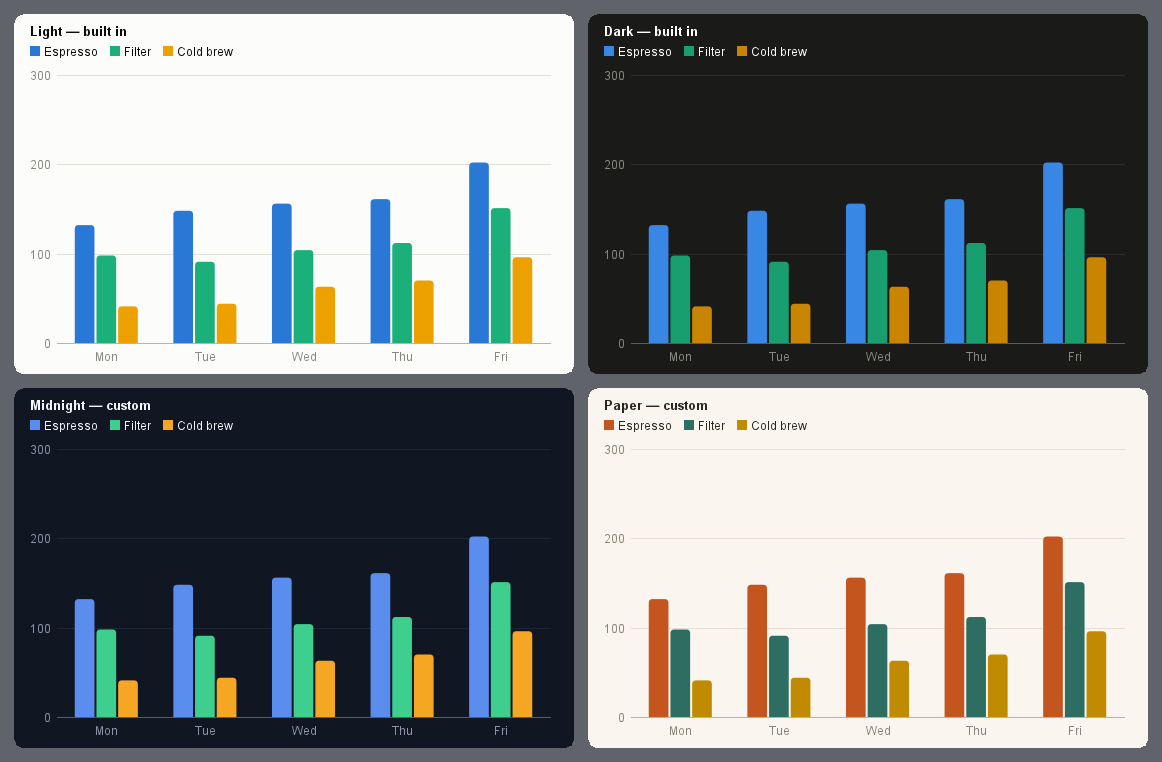
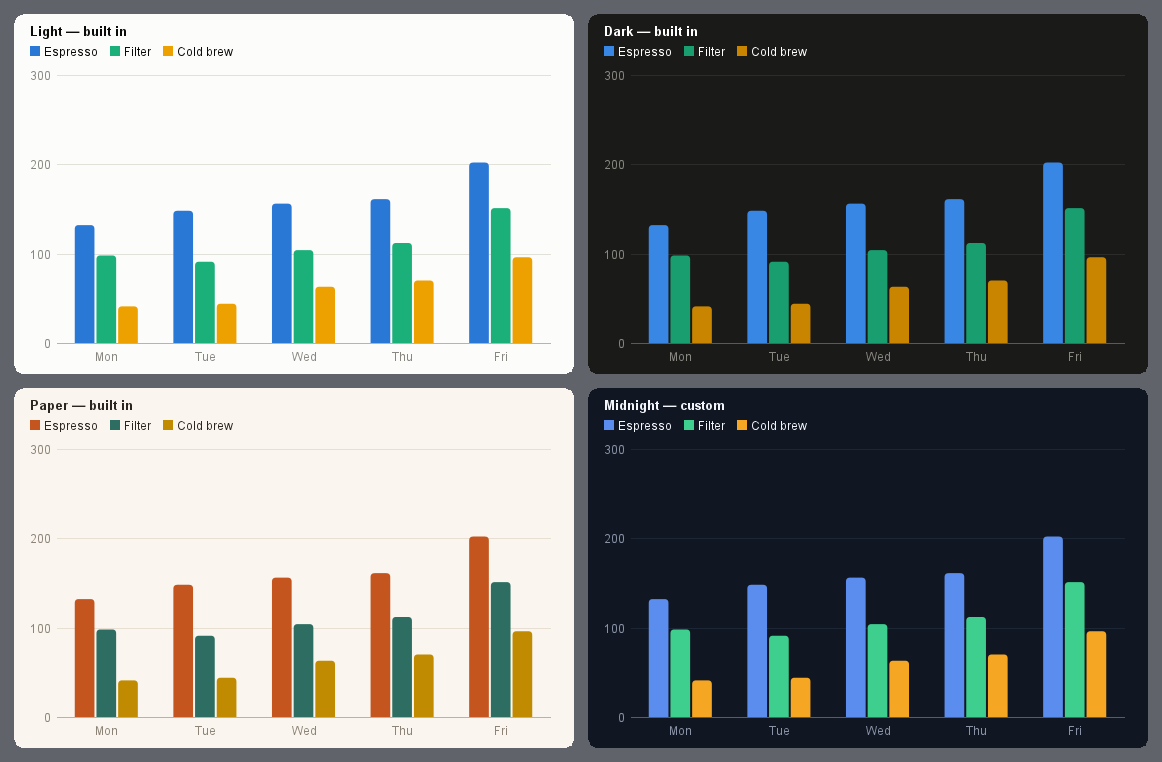
feat: ChartTheme.PAPER joins the built-ins
The warm print-like theme graduates from showcase code into the library
proper — one call away. The theming docs now lead with the three
built-ins and keep Midnight as the worked custom-theme example.

diff --git a/src/main/java/io/github/wesleym/inkplot/ChartTheme.java b/src/main/java/io/github/wesleym/inkplot/ChartTheme.java
@@ -4,9 +4,10 @@ import java.awt.Color;
 import java.util.List;
 
 /**
- * Every colour a chart draws with, as one immutable value. The built-in {@link #light()} and {@link #dark()}
- * themes are a validated, colourblind-aware default (the dark series palette is the same eight hues re-stepped
- * for the dark surface, not an automatic flip) — pass a custom instance to restyle everything at once.
+ * Every colour a chart draws with, as one immutable value. Three themes are built in: {@link #LIGHT} and
+ * {@link #DARK} are a validated, colourblind-aware default pair (the dark series palette is the same eight
+ * hues re-stepped for the dark surface, not an automatic flip), and {@link #PAPER} is a warm print-like
+ * alternative. Pass a custom instance to restyle everything at once.
  *
  * @param dark     whether this palette sits on a dark surface (drives hover lifts and contrast nudges)
  * @param surface  the chart background
@@ -42,7 +43,25 @@ public record ChartTheme(boolean dark, Color surface, Color text, Color muted, C
 					new Color(0xE8, 0x7B, 0xA4),    // magenta
 					new Color(0xEB, 0x68, 0x34)));  // orange
 
-	/** The built-in dark theme: the same eight hues, re-stepped for the dark surface. */
+	/** The built-in warm, print-like theme: a paper surface with earthy series inks. */
+	public static final ChartTheme PAPER = new ChartTheme(false,
+			new Color(0xFA, 0xF6, 0xEF),   // surface
+			new Color(0x2B, 0x26, 0x20),   // text
+			new Color(0x8C, 0x84, 0x78),   // muted
+			new Color(0xE6, 0xDF, 0xD2),   // hairline
+			new Color(0xC4, 0x55, 0x1E),   // accent
+			new Color(0xF1, 0xEA, 0xE0),   // elevated
+			List.of(
+					new Color(0xC4, 0x55, 0x1E),    // terracotta
+					new Color(0x2E, 0x6E, 0x62),    // deep teal
+					new Color(0xC0, 0x8B, 0x00),    // ochre
+					new Color(0x5B, 0x4A, 0x8A),    // plum
+					new Color(0x8A, 0x3B, 0x3B),    // brick
+					new Color(0x4E, 0x7A, 0x3A),    // olive
+					new Color(0x3E, 0x6B, 0x9E),    // slate blue
+					new Color(0xA5, 0x6A, 0x8E)));  // mauve
+
+	/** The built-in dark theme: the same eight hues as {@link #LIGHT}, re-stepped for the dark surface. */
 	public static final ChartTheme DARK = new ChartTheme(true,
 			new Color(0x1A, 0x1A, 0x19),
 			new Color(0xFF, 0xFF, 0xFF),

diff --git a/src/test/java/io/github/wesleym/inkplot/ShowcaseTest.java b/src/test/java/io/github/wesleym/inkplot/ShowcaseTest.java
@@ -23,7 +23,7 @@ import static org.junit.jupiter.api.Assertions.assertTrue;
  */
 class ShowcaseTest {
 
-	// A deep blue-black theme for the palette study.
+	// A custom theme, defined exactly as the README shows it: deep blue-black surface, vivid series.
 	static final ChartTheme MIDNIGHT = new ChartTheme(true,
 			new Color(0x10, 0x16, 0x22),    // surface
 			new Color(0xF2, 0xF5, 0xFA),    // text
@@ -35,20 +35,6 @@ class ShowcaseTest {
 					new Color(0xF5, 0xA6, 0x23), new Color(0xE8, 0x61, 0x8C),
 					new Color(0x9B, 0x7E, 0xF7), new Color(0x38, 0xC6, 0xD9),
 					new Color(0xE9, 0x78, 0x52), new Color(0xC3, 0xD3, 0x4F)));
-
-	// The custom theme the dashboard renders in, defined exactly as the README shows it: a warm,
-	// print-like surface with earthy series inks.
-	static final ChartTheme PAPER = new ChartTheme(false,
-			new Color(0xFA, 0xF6, 0xEF),
-			new Color(0x2B, 0x26, 0x20),
-			new Color(0x8C, 0x84, 0x78),
-			new Color(0xE6, 0xDF, 0xD2),
-			new Color(0xC4, 0x55, 0x1E),
-			new Color(0xF1, 0xEA, 0xE0),
-			List.of(new Color(0xC4, 0x55, 0x1E), new Color(0x2E, 0x6E, 0x62),
-					new Color(0xC0, 0x8B, 0x00), new Color(0x5B, 0x4A, 0x8A),
-					new Color(0x8A, 0x3B, 0x3B), new Color(0x4E, 0x7A, 0x3A),
-					new Color(0x3E, 0x6B, 0x9E), new Color(0xA5, 0x6A, 0x8E)));
 
 	private static final long DAY = 24L * 60 * 60 * 1000;
 
@@ -78,7 +64,7 @@ class ShowcaseTest {
 				Graphics2D tg = (Graphics2D) g.create();
 				tg.translate(x, y);
 				tg.setClip(new RoundRectangle2D.Double(0, 0, tileW, tileH, 18, 18));
-				tiles[r][c].theme(PAPER).component().renderTo(tg, tileW, tileH);
+				tiles[r][c].theme(ChartTheme.PAPER).component().renderTo(tg, tileW, tileH);
 				tg.dispose();
 			}
 		}
@@ -92,8 +78,8 @@ class ShowcaseTest {
 		Named[] palettes = {
 				new Named("Light — built in", ChartTheme.LIGHT),
 				new Named("Dark — built in", ChartTheme.DARK),
-				new Named("Midnight — custom", MIDNIGHT),
-				new Named("Paper — custom", PAPER) };
+				new Named("Paper — built in", ChartTheme.PAPER),
+				new Named("Midnight — custom", MIDNIGHT) };
 		int tileW = 560;
 		int tileH = 360;
 		int gap = 14;
@@ -143,7 +129,7 @@ class ShowcaseTest {
 		}
 		BufferedImage img = chart
 				.title("Velocity by team", "12 series — 4 past the base palette")
-				.theme(PAPER)
+				.theme(ChartTheme.PAPER)
 				.image(1020, 520);
 		write("showcase-spectrum", img);
 	}

diff --git a/README.md b/README.md
@@ -12,9 +12,9 @@ interactive charts by default, and a colourblind-aware palette validated for lig
 
 <img src="docs/showcase-dashboard.png" alt="Six charts composed into a dashboard, custom Paper theme">
 
-<sup>Six charts, one custom "Paper" theme — composed headless by inkplot itself (`ShowcaseTest`), like
-every image on this page: the code shown is exactly what rendered the chart next to it, regenerated on
-every build so they can't drift apart.</sup>
+<sup>Six charts, one theme — the built-in `ChartTheme.PAPER` — composed headless by inkplot itself
+(`ShowcaseTest`), like every image on this page: the code shown is exactly what rendered the chart next
+to it, regenerated on every build so they can't drift apart.</sup>
 
 ## Quickstart
 
@@ -169,29 +169,35 @@ the transient screen viewport.
 
 ## Theming
 
-`ChartTheme.LIGHT` and `ChartTheme.DARK` are validated defaults: the eight-hue categorical palette is
-ordered for colourblind separation, and the dark palette is the same hues re-stepped for the dark
-surface — not an automatic flip. Every colour a chart draws with lives in one immutable value, so a
-whole visual identity is one expression — this is the warm, print-like "Paper" theme the dashboard
-above renders in:
+Three themes are built in. `ChartTheme.LIGHT` and `ChartTheme.DARK` are validated defaults: the
+eight-hue categorical palette is ordered for colourblind separation, and the dark palette is the same
+hues re-stepped for the dark surface — not an automatic flip. `ChartTheme.PAPER` is the warm,
+print-like alternative the dashboard above renders in — one call away:
 
 ```java
-ChartTheme paper = new ChartTheme(false,
-        new Color(0xFA, 0xF6, 0xEF),    // surface
-        new Color(0x2B, 0x26, 0x20),    // text
-        new Color(0x8C, 0x84, 0x78),    // muted
-        new Color(0xE6, 0xDF, 0xD2),    // hairline
-        new Color(0xC4, 0x55, 0x1E),    // accent
-        new Color(0xF1, 0xEA, 0xE0),    // elevated (tooltips)
-        List.of(new Color(0xC4, 0x55, 0x1E), new Color(0x2E, 0x6E, 0x62),
-                new Color(0xC0, 0x8B, 0x00), new Color(0x5B, 0x4A, 0x8A),
-                new Color(0x8A, 0x3B, 0x3B), new Color(0x4E, 0x7A, 0x3A),
-                new Color(0x3E, 0x6B, 0x9E), new Color(0xA5, 0x6A, 0x8E)));
-
-Charts.bar(cats, values).theme(paper).component();
+Charts.bar(cats, values).theme(ChartTheme.PAPER).component();
 ```
 
-The same chart, four palettes — the two built-ins, "Paper", and a deep blue-black "Midnight":
+Every colour a chart draws with lives in one immutable value, so a whole visual identity of your own is
+a single expression — a deep blue-black "Midnight", say:
+
+```java
+ChartTheme midnight = new ChartTheme(true,
+        new Color(0x10, 0x16, 0x22),    // surface
+        new Color(0xF2, 0xF5, 0xFA),    // text
+        new Color(0x8A, 0x93, 0xA6),    // muted
+        new Color(0x1D, 0x26, 0x35),    // hairline
+        new Color(0x5B, 0x8D, 0xEF),    // accent
+        new Color(0x1A, 0x23, 0x33),    // elevated (tooltips)
+        List.of(new Color(0x5B, 0x8D, 0xEF), new Color(0x3E, 0xCF, 0x8E),
+                new Color(0xF5, 0xA6, 0x23), new Color(0xE8, 0x61, 0x8C),
+                new Color(0x9B, 0x7E, 0xF7), new Color(0x38, 0xC6, 0xD9),
+                new Color(0xE9, 0x78, 0x52), new Color(0xC3, 0xD3, 0x4F)));
+
+Charts.bar(cats, values).theme(midnight).component();
+```
+
+The same chart, four palettes — the three built-ins plus that custom "Midnight":
 
 <img src="docs/showcase-palettes.png" alt="The same grouped bar chart in four palettes">
 